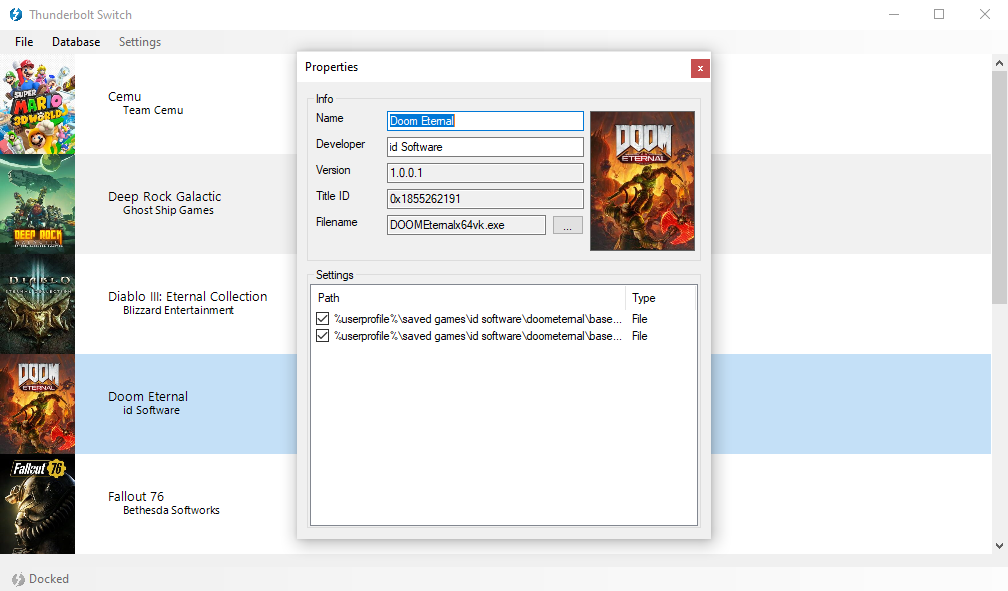
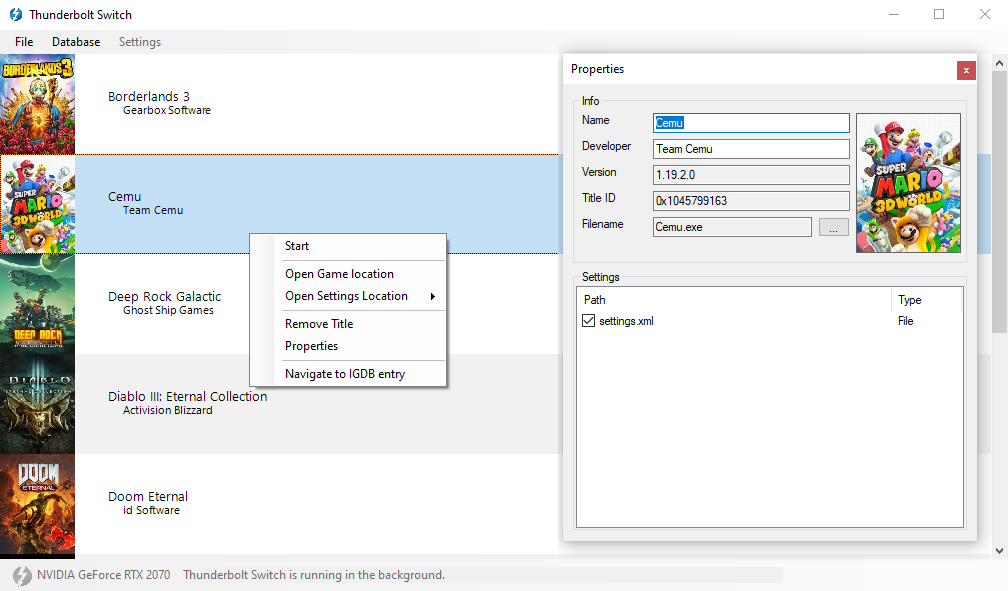
updated readme

diff --git a/README.md b/README.md
@@ -3,3 +3,24 @@
 ![Visual](assets/visual.png)
 
 Thunderbolt Switch, a software that switches your game settings depending on whether you are connected to an external GPU or not.
+
+## Project Status
+
+Refer to https://github.com/Valkirie/Thunderbolt-Switch/wiki/Status for the updated project status.
+
+## Guide
+
+**Find a Game**
+
+- Click on "Database".
+- Click on "Find a Game" and pick the the game executable.
+
+**Properties**
+
+The game Properties window will be displayed and will try to collect as much information as possible from your game executable, including: Game Name, Game Developer, Game Version and Game Icon. You can get a better looking artwork by right clicking on the game icon and select "Download from IGDB". The displayed list of games will be based on the "Name" settings field.
+
+- Right clicking on the Settings tab will allow you to add link a settings file to your game. To do so, click on "Create Setting" then select the setting type from the list: File or Registry depending on where your game settings are stored. (*If you need help locating your game settings location, right click on the game Artwork and select "Search on PCGaming Wiki"*).
+
+**Game List**
+
+The game list will display all your currently handled games. From that list, you can right click on any title to display an action menu from where you can quickly Start the Game, Open the Game Location, Open each Settings Location, Remove the Title or access its Properties.
